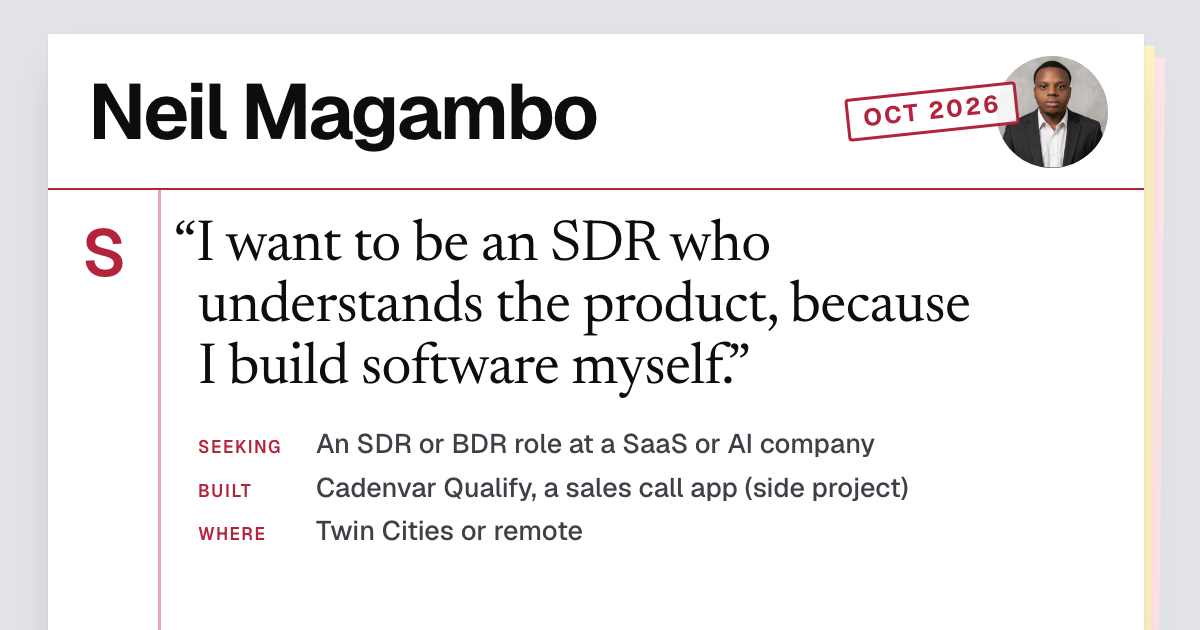
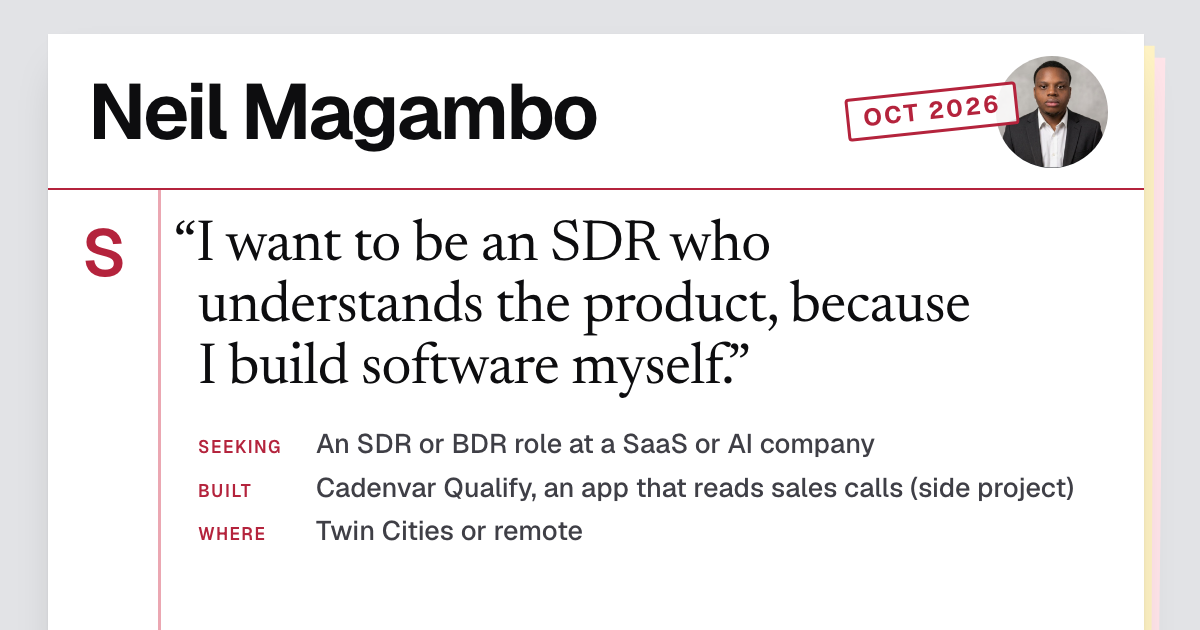
Apply review fixes to the one-page site
Design review: buttons and links ink a pen underline on hover and focus
instead of changing fill; the sample finding now shows the partial
Impact row with its next-call question and labels the data as fictional
before the quote; the note format reads as a discovery note; the plan
line is the P heading; paragraphs capped at 68ch; quieter dark copies.
Fact check: current-job tense for the daily debrief, demo link wording,
"does not have to re-ask", AI-assisted development line from LinkedIn,
neutral provenance for the portrait, README 404 wording.

Changed region(s): [[0.4625, 0.754, 0.8942, 0.8143]]

diff --git a/index.html b/index.html
@@ -16,7 +16,7 @@
   <meta property="og:image" content="https://neilmagambo3000.github.io/neil-magambo-portfolio/assets/img/og-card.png">
   <meta property="og:image:width" content="1200">
   <meta property="og:image:height" content="630">
-  <meta property="og:image:alt" content="Neil Magambo, SDR candidate for SaaS and AI, written like a progress note">
+  <meta property="og:image:alt" content="Neil Magambo. I want to be an SDR who understands the product, because I build software myself. Seeking an SDR or BDR role at a SaaS or AI company, Twin Cities or remote.">
   <meta name="twitter:card" content="summary_large_image">
   <link rel="icon" href="assets/img/favicon.svg" type="image/svg+xml">
   <link rel="preload" href="assets/fonts/geist-latin-var.woff2" as="font" type="font/woff2" crossorigin>
@@ -53,7 +53,7 @@
           </div>
           <div class="field field--format">
             <dt>Note format</dt>
-            <dd>Written like a social work progress note: <span class="key">S</span> what I said, <span class="key">O</span> what you can check, <span class="key">A</span> my read, <span class="key">P</span> the plan.</dd>
+            <dd>Written like a discovery note, in the four parts of a SOAP progress note from social work: <span class="key">S</span> what I said, <span class="key">O</span> what you can check, <span class="key">A</span> my read, <span class="key">P</span> the plan.</dd>
           </div>
         </dl>
       </header>
@@ -76,14 +76,14 @@
 
             <figure class="attach" aria-labelledby="attach-title">
               <span class="clip" aria-hidden="true"></span>
-              <p class="attach__head" id="attach-title">Attachment A: one finding from the Cadenvar Qualify sample report</p>
-              <p class="status"><span class="status__dot" aria-hidden="true"></span>Pain <span class="status__word">Confirmed</span></p>
+              <p class="attach__head" id="attach-title">Attachment A: one finding from the Cadenvar Qualify sample report. Fictional company and people.</p>
+              <p class="status"><span class="status__dot status__dot--partial" aria-hidden="true"></span>Impact <span class="status__word status__word--partial">Partial</span></p>
               <blockquote class="evidence">
-                <p>“Honestly <mark>our managers can’t review calls</mark>, so deals slip without anyone noticing.”</p>
+                <p>“<mark>It costs us a lot of hours</mark> every week.”</p>
               </blockquote>
-              <p class="who">Dana Whitfield, discovery call, 0:36</p>
+              <p class="who">Dana Whitfield, discovery call, 1:03</p>
               <p class="ask"><strong>Ask on the next call:</strong> What does this problem cost you, in revenue, hours or missed targets?</p>
-              <figcaption>Sample data from cadenvar.com. Fictional company and people. <a href="https://cadenvar.com/qualify">See the full sample report</a></figcaption>
+              <figcaption>Sample data from cadenvar.com, illustrative output, not a real customer. <a href="https://cadenvar.com/qualify">See the full sample report</a></figcaption>
             </figure>
           </div>
         </section>
@@ -135,7 +135,7 @@
                 <p class="ledger__src">LinkedIn, Languages</p>
               </li>
             </ol>
-            <p class="after"><a href="https://www.linkedin.com/in/neil-magambo-02512825b/" rel="me">Open my LinkedIn profile</a> to check any line, or <a href="https://www.linkedin.com/feed/update/urn:li:activity:7515174970814005248/">watch my Cadenvar Qualify demo post</a>.</p>
+            <p class="after"><a href="https://www.linkedin.com/in/neil-magambo-02512825b/" rel="me">Open my LinkedIn profile</a> to check any line, or <a href="https://www.linkedin.com/feed/update/urn:li:activity:7515174970814005248/">watch the Cadenvar Qualify demo I shared on LinkedIn</a>.</p>
           </div>
         </section>
 
@@ -148,7 +148,7 @@
               <li>
                 <h3>Listening, then writing it down</h3>
                 <p>Progress and incident notes for about 70 residents, shared with their case managers.</p>
-                <p class="traits__job"><span class="traits__label">In SDR work</span> Discovery notes and a clean handoff, so the account executive never re-asks what the buyer already said.</p>
+                <p class="traits__job"><span class="traits__label">In SDR work</span> Discovery notes and a clean handoff, so the account executive does not have to re-ask what the buyer already said.</p>
               </li>
               <li>
                 <h3>Calm with pushback</h3>
@@ -162,7 +162,7 @@
               </li>
               <li>
                 <h3>Coachable</h3>
-                <p>As a youth worker, I debrief with my supervisor after work every day on what I saw and how to improve.</p>
+                <p>In my current job as a youth worker at Roseville Area Schools, I debrief with my supervisor after work every day on what I saw and how to improve.</p>
                 <p class="traits__job"><span class="traits__label">In SDR work</span> Daily feedback is already a habit, so call reviews and one-on-ones fit how I work.</p>
               </li>
               <li>
@@ -173,7 +173,8 @@
             </ul>
 
             <h3 class="subhead">How I work with AI</h3>
-            <p>I use AI every day. AI drafts my account research and first-touch messages; I check the facts, edit, and approve every message before it goes out. I built that into a five-step outbound workflow:</p>
+            <p>I use AI every day. AI drafts my account research and first-touch messages; I check the facts, edit, and approve every message before it goes out. I also build software with AI-assisted development: I design the architecture, review and test the code, and debug it.</p>
+            <p>The outreach side runs as a five-step workflow I built:</p>
             <ol class="steps">
               <li><strong>Account brief</strong> One page on the company, with source links and a list of anything unverified.</li>
               <li><strong>Fit check</strong> Eight written criteria, each scored with a reason and a source.</li>
@@ -195,8 +196,7 @@
         <section class="part part--p" aria-labelledby="p-title">
           <span class="mark" aria-hidden="true">P</span>
           <div class="part__body">
-            <h2 id="p-title">Next step</h2>
-            <p class="plan">A 15-minute call.</p>
+            <h2 id="p-title" class="plan">A 15-minute call.</h2>
             <p class="lede">If you manage a sales team, I’d like to hear what separates your best new reps.</p>
             <p class="actions">
               <a class="btn btn--ink" href="https://www.linkedin.com/in/neil-magambo-02512825b/" rel="me">Message me on LinkedIn</a>

diff --git a/assets/css/site.css b/assets/css/site.css
@@ -29,6 +29,7 @@
   --print-soft: #eba7b2;
   --pen: #2e4fd6;
   --pen-wash: rgba(46, 79, 214, 0.16);
+  --pen-on-ink: #a3b3ff;
   --canary: #fff3c4;
   --canary-ink-2: #4b421a;
   --canary-hair: rgba(75, 66, 26, 0.2);
@@ -57,11 +58,12 @@
     --print-soft: #6e2f3a;
     --pen: #a3b3ff;
     --pen-wash: rgba(143, 163, 255, 0.24);
-    --canary: #262210;
-    --canary-ink-2: #e2d8a4;
-    --canary-hair: rgba(226, 216, 164, 0.18);
-    --pink: #2a171c;
-    --pink-ink-2: #f0cad2;
+    --pen-on-ink: #2e4fd6;
+    --canary: #211e15;
+    --canary-ink-2: #ddd5b4;
+    --canary-hair: rgba(221, 213, 180, 0.16);
+    --pink: #231b1e;
+    --pink-ink-2: #ecd0d6;
     --perf: #66666e;
     --clip: #8f949c;
     --shadow: 0 1px 2px rgba(0, 0, 0, 0.5), 0 22px 44px -18px rgba(0, 0, 0, 0.7);
@@ -95,16 +97,19 @@ body {
   color: var(--ink);
 }
 
+/* Signature: the ballpoint. Links and buttons get a pen stroke under the words on hover and keyboard focus. */
 a {
   color: var(--pen);
   text-decoration-line: underline;
   text-decoration-thickness: 1px;
   text-underline-offset: 0.22em;
-  transition: text-decoration-thickness 0.15s ease-out;
+  transition: text-decoration-thickness 0.2s cubic-bezier(0.16, 1, 0.3, 1), text-underline-offset 0.2s cubic-bezier(0.16, 1, 0.3, 1);
 }
 
-a:hover {
+a:hover,
+a:focus-visible {
   text-decoration-thickness: 2.5px;
+  text-underline-offset: 0.16em;
 }
 
 :focus-visible {
@@ -324,6 +329,13 @@ strong {
   transform: rotate(-6deg);
 }
 
+@media (prefers-reduced-motion: reduce) {
+  a,
+  .btn {
+    transition: none;
+  }
+}
+
 @media (prefers-reduced-motion: no-preference) {
   .stamp {
     animation: stamp 0.55s cubic-bezier(0.16, 1, 0.3, 1) 0.15s backwards;
@@ -362,6 +374,10 @@ strong {
   letter-spacing: -0.02em;
   text-align: center;
   color: var(--print);
+}
+
+.part__body > p {
+  max-width: 68ch;
 }
 
 .part__body {
@@ -430,8 +446,17 @@ h3 {
   border-radius: 2px;
   font: 560 1rem/1.2 var(--sans);
   letter-spacing: -0.005em;
-  text-decoration: none;
-  transition: background-color 0.18s ease-out, border-color 0.18s ease-out, color 0.18s ease-out;
+  text-decoration-line: underline;
+  text-decoration-color: transparent;
+  text-decoration-thickness: 2px;
+  text-underline-offset: 0.4em;
+  transition: text-decoration-color 0.2s ease-out, text-underline-offset 0.2s cubic-bezier(0.16, 1, 0.3, 1);
+}
+
+.btn:hover,
+.btn:focus-visible {
+  text-decoration-color: var(--pen);
+  text-underline-offset: 0.3em;
 }
 
 .btn--ink {
@@ -439,19 +464,14 @@ h3 {
   color: var(--paper);
 }
 
-.btn--ink:hover {
-  background: var(--pen);
-  border-color: var(--pen);
-  color: var(--paper);
+.btn--ink:hover,
+.btn--ink:focus-visible {
+  text-decoration-color: var(--pen-on-ink);
 }
 
 .btn--line {
   background: transparent;
   color: var(--ink);
-}
-
-.btn--line:hover {
-  background: var(--pen-wash);
 }
 
 .btn:active {
@@ -508,6 +528,15 @@ h3 {
   height: 11px;
   border-radius: 50%;
   background: var(--pen);
+}
+
+.status__dot--partial {
+  border: 1.5px solid var(--pen);
+  background: linear-gradient(90deg, var(--pen) 50%, transparent 50%);
+}
+
+.status__word--partial {
+  border-style: dashed;
 }
 
 .status__word {
@@ -747,7 +776,7 @@ mark {
 }
 
 .plan {
-  margin: 0 0 0.35em;
+  margin: 0 0 0.4em;
   font: 650 clamp(1.875rem, 3.8vw, 2.75rem)/1.08 var(--sans);
   letter-spacing: -0.03em;
 }

diff --git a/README.md b/README.md
@@ -4,7 +4,7 @@ One static page for SDR and BDR hiring managers at SaaS and AI companies. It is 
 
 - No scripts, no analytics and no third-party requests. Each page sets a Content Security Policy that only allows files from this site.
 - Fonts are self-hosted: Geist and a subset of Newsreader, both under the SIL Open Font License (see `assets/fonts/OFL.txt`).
-- `404.html` sends old links from the earlier coursework version of this site (biography.html, projects.html and the others) to the new page.
+- `404.html` shows a short "This page moved" notice with a link to the new page when someone opens an old link from the earlier coursework version of this site (biography.html, projects.html and the others).
 - The earlier version, my CSC 310 Web Development coursework from Concordia College, is kept in the history at commit `e753176`.
 
 ## View it locally
